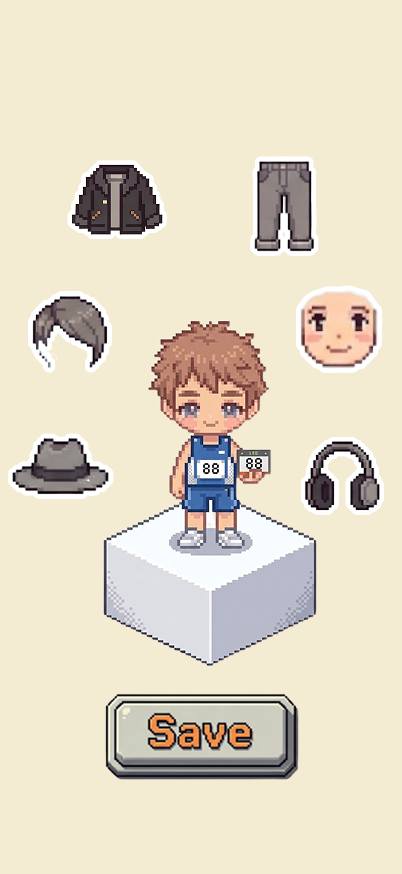
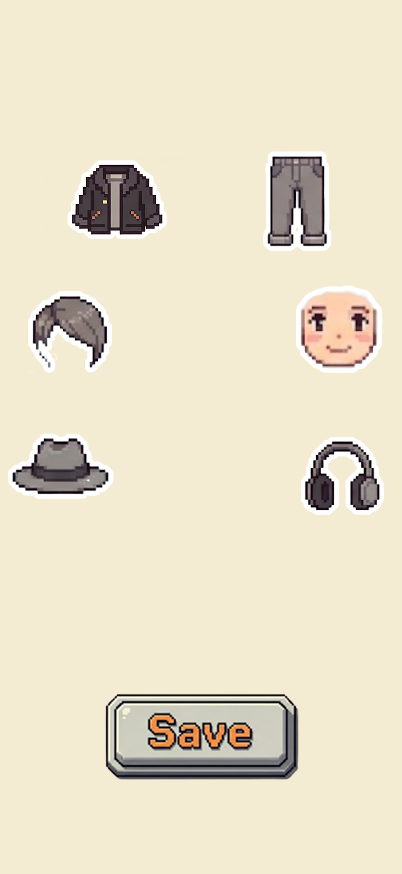
feat: 完成角色自定义页面动画并优化图片素材

Changed region(s): [[0.2388, 0.3707, 0.806, 0.7723], [0.6269, 0.1545, 0.8358, 0.3089]]

diff --git a/frontend/customize.html b/frontend/customize.html
@@ -13,8 +13,7 @@
             width: 393px;
             height: 852px;
             overflow: hidden;
-            border: none;
-            border-radius: 0;
+            background: #fff; /* 防止背景图加载前白屏 */
         }
 
         .page-bg {
@@ -25,12 +24,55 @@
             z-index: 0;
         }
 
+        /* --- 核心：小男孩人物样式与动画 --- */
+        .character-box {
+            position: absolute;
+            /* 根据你的背景图位置，调整人物坐标 */
+            top: 270px; 
+            left: 50%;
+            transform: translateX(-50%);
+            z-index: 5; /* 位于背景图之上，热区之下 */
+            display: flex;
+            flex-direction: column;
+            align-items: center;
+        }
+
+   .pixel-boy {
+    /* 将原来的 140px 修改为更大数值，比如 200px */
+    width: 180px; 
+    height: auto;
+    image-rendering: pixelated; 
+    animation: breathing 2s ease-in-out infinite;
+    transform-origin: bottom;
+}
+        /* 呼吸关键帧：轻微上下起伏和缩放 */
+        @keyframes breathing {
+            0%, 100% { transform: translateY(0) scaleY(1); }
+            50% { transform: translateY(-6px) scaleY(1.02); }
+        }
+
+        /* 脚底阴影效果 */
+        .char-shadow {
+            width: 70px;
+            height: 10px;
+            background: rgba(0, 0, 0, 0.1);
+            border-radius: 50%;
+            margin-top: -8px;
+            animation: shadow-scale 2s ease-in-out infinite;
+        }
+
+        @keyframes shadow-scale {
+            0%, 100% { transform: scale(1); opacity: 0.2; }
+            50% { transform: scale(1.15); opacity: 0.1; }
+        }
+
+        /* --- 交互元素保持不变 --- */
         .hotspot {
             position: absolute;
             background: transparent;
             border: none;
             cursor: pointer;
-            z-index: 1;
+            z-index: 10;
         }
 
         .top-right-actions {
@@ -55,34 +97,38 @@
             object-fit: contain;
         }
 
-        /* --- 新增：Save 按钮热区样式 --- */
         .save-hotspot {
             position: absolute;
             cursor: pointer;
-            background: transparent; /* 默认透明，看不见 */
+            background: transparent;
             border: none;
             z-index: 10;
-            transition: all 0.1s ease; /* 让点击反馈更丝滑 */
-            
-            /* 【重要】请根据你的图片，微调以下数值 */
-            top: 680px;    /* 按钮在图片中的垂直位置 */
-            left: 95px;    /* 按钮在图片中的水平位置 */
-            width: 200px;  /* 按钮的宽度 */
-            height: 80px;  /* 按钮的高度 */
+            transition: all 0.1s ease;
+            top: 680px;
+            left: 95px;
+            width: 200px;
+            height: 80px;
         }
 
-        /* 这里的:active就是所谓的“点击感” */
         .save-hotspot:active {
-            background: rgba(0, 0, 0, 0.15); /* 点击瞬间变深，模拟按下 */
-            transform: scale(0.96);          /* 稍微缩小一点，模拟物理下陷 */
-            border-radius: 12px;             /* 匹配按钮圆角 */
+            background: rgba(0, 0, 0, 0.15);
+            transform: scale(0.96);
+            border-radius: 12px;
         }
     </style>
 </head>
 <body>
     <div class="phone-container">
+        <!-- 背景层 -->
         <img src="images/iPhone 17 - 27.png" alt="Customize Background" class="page-bg">
 
+        <!-- 人物层：新增动画男孩 -->
+        <div class="character-box">
+            <img src="images/image 50.png" alt="Pixel Boy" class="pixel-boy">
+            <div class="char-shadow"></div>
+        </div>
+
+        <!-- 交互层：按钮与热区 -->
         <div class="top-right-actions" aria-label="Top right actions">
             <a href="iphone17-35-1.html" class="top-right-action" aria-label="Open cart">
                 <img src="images/Group 123.png" alt="Open cart">
@@ -92,9 +138,11 @@
             </a>
         </div>
 
+        <!-- 衣服/裤子点击热区 -->
         <a href="jacket.html" class="hotspot" style="top: 160px; left: 63px; width: 100px; height: 70px;" aria-label="Select Jacket"></a>
         <a href="pants.html" class="hotspot" style="top: 140px; left: 230px; width: 80px; height: 110px;" aria-label="Select Pants"></a>
 
+        <!-- 保存按钮热区 -->
         <button class="save-hotspot" onclick="alert('保存成功！')"></button>
     </div>
 </body>
